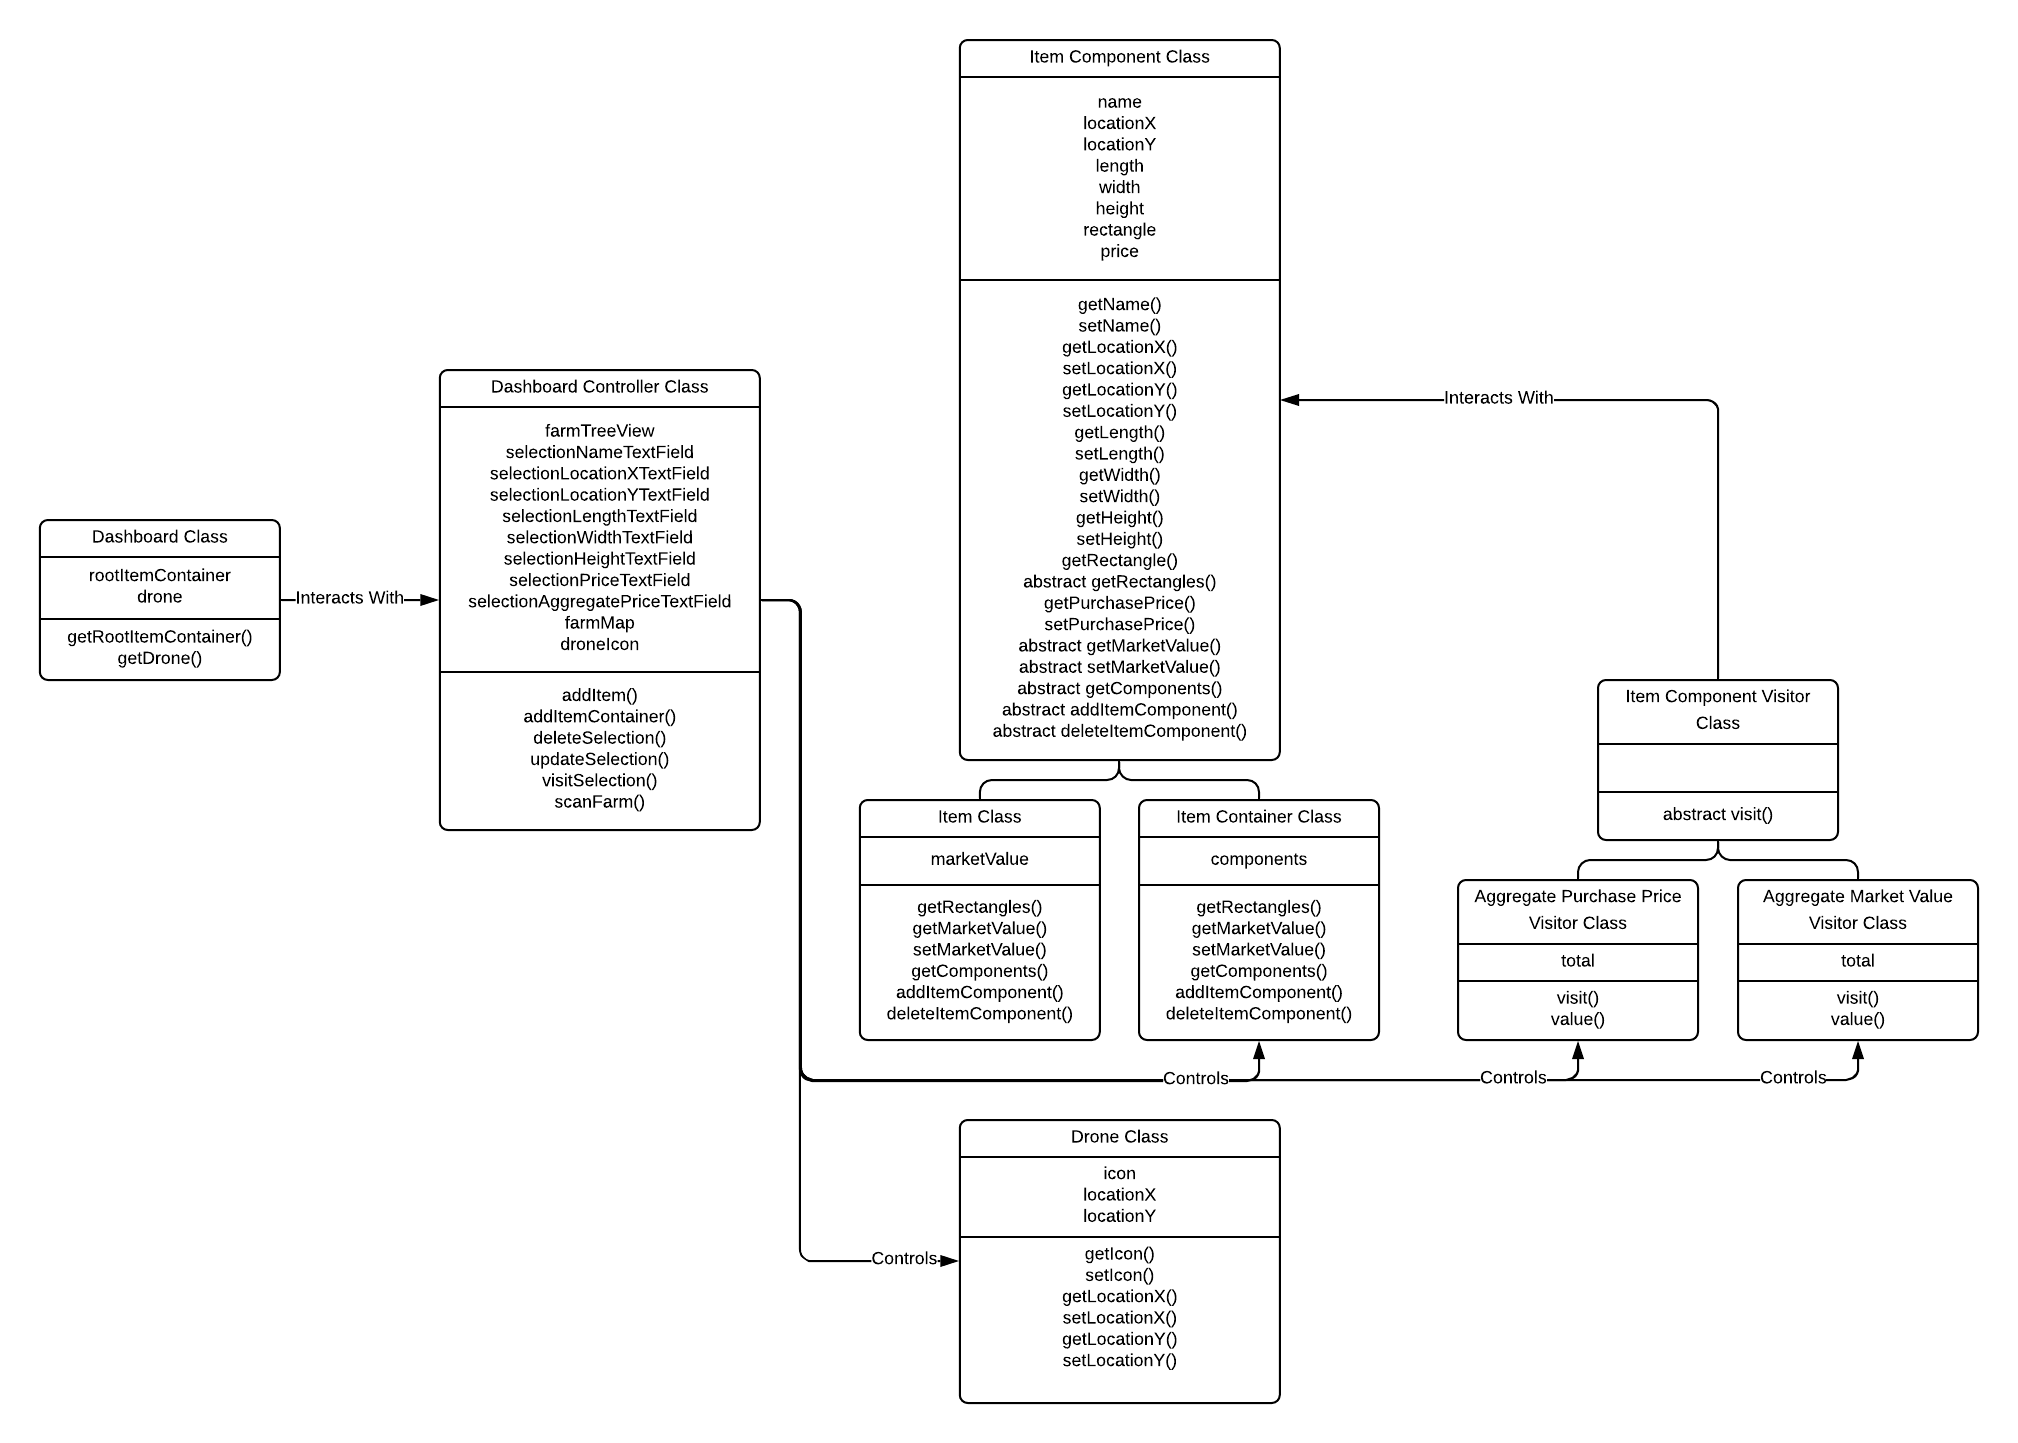
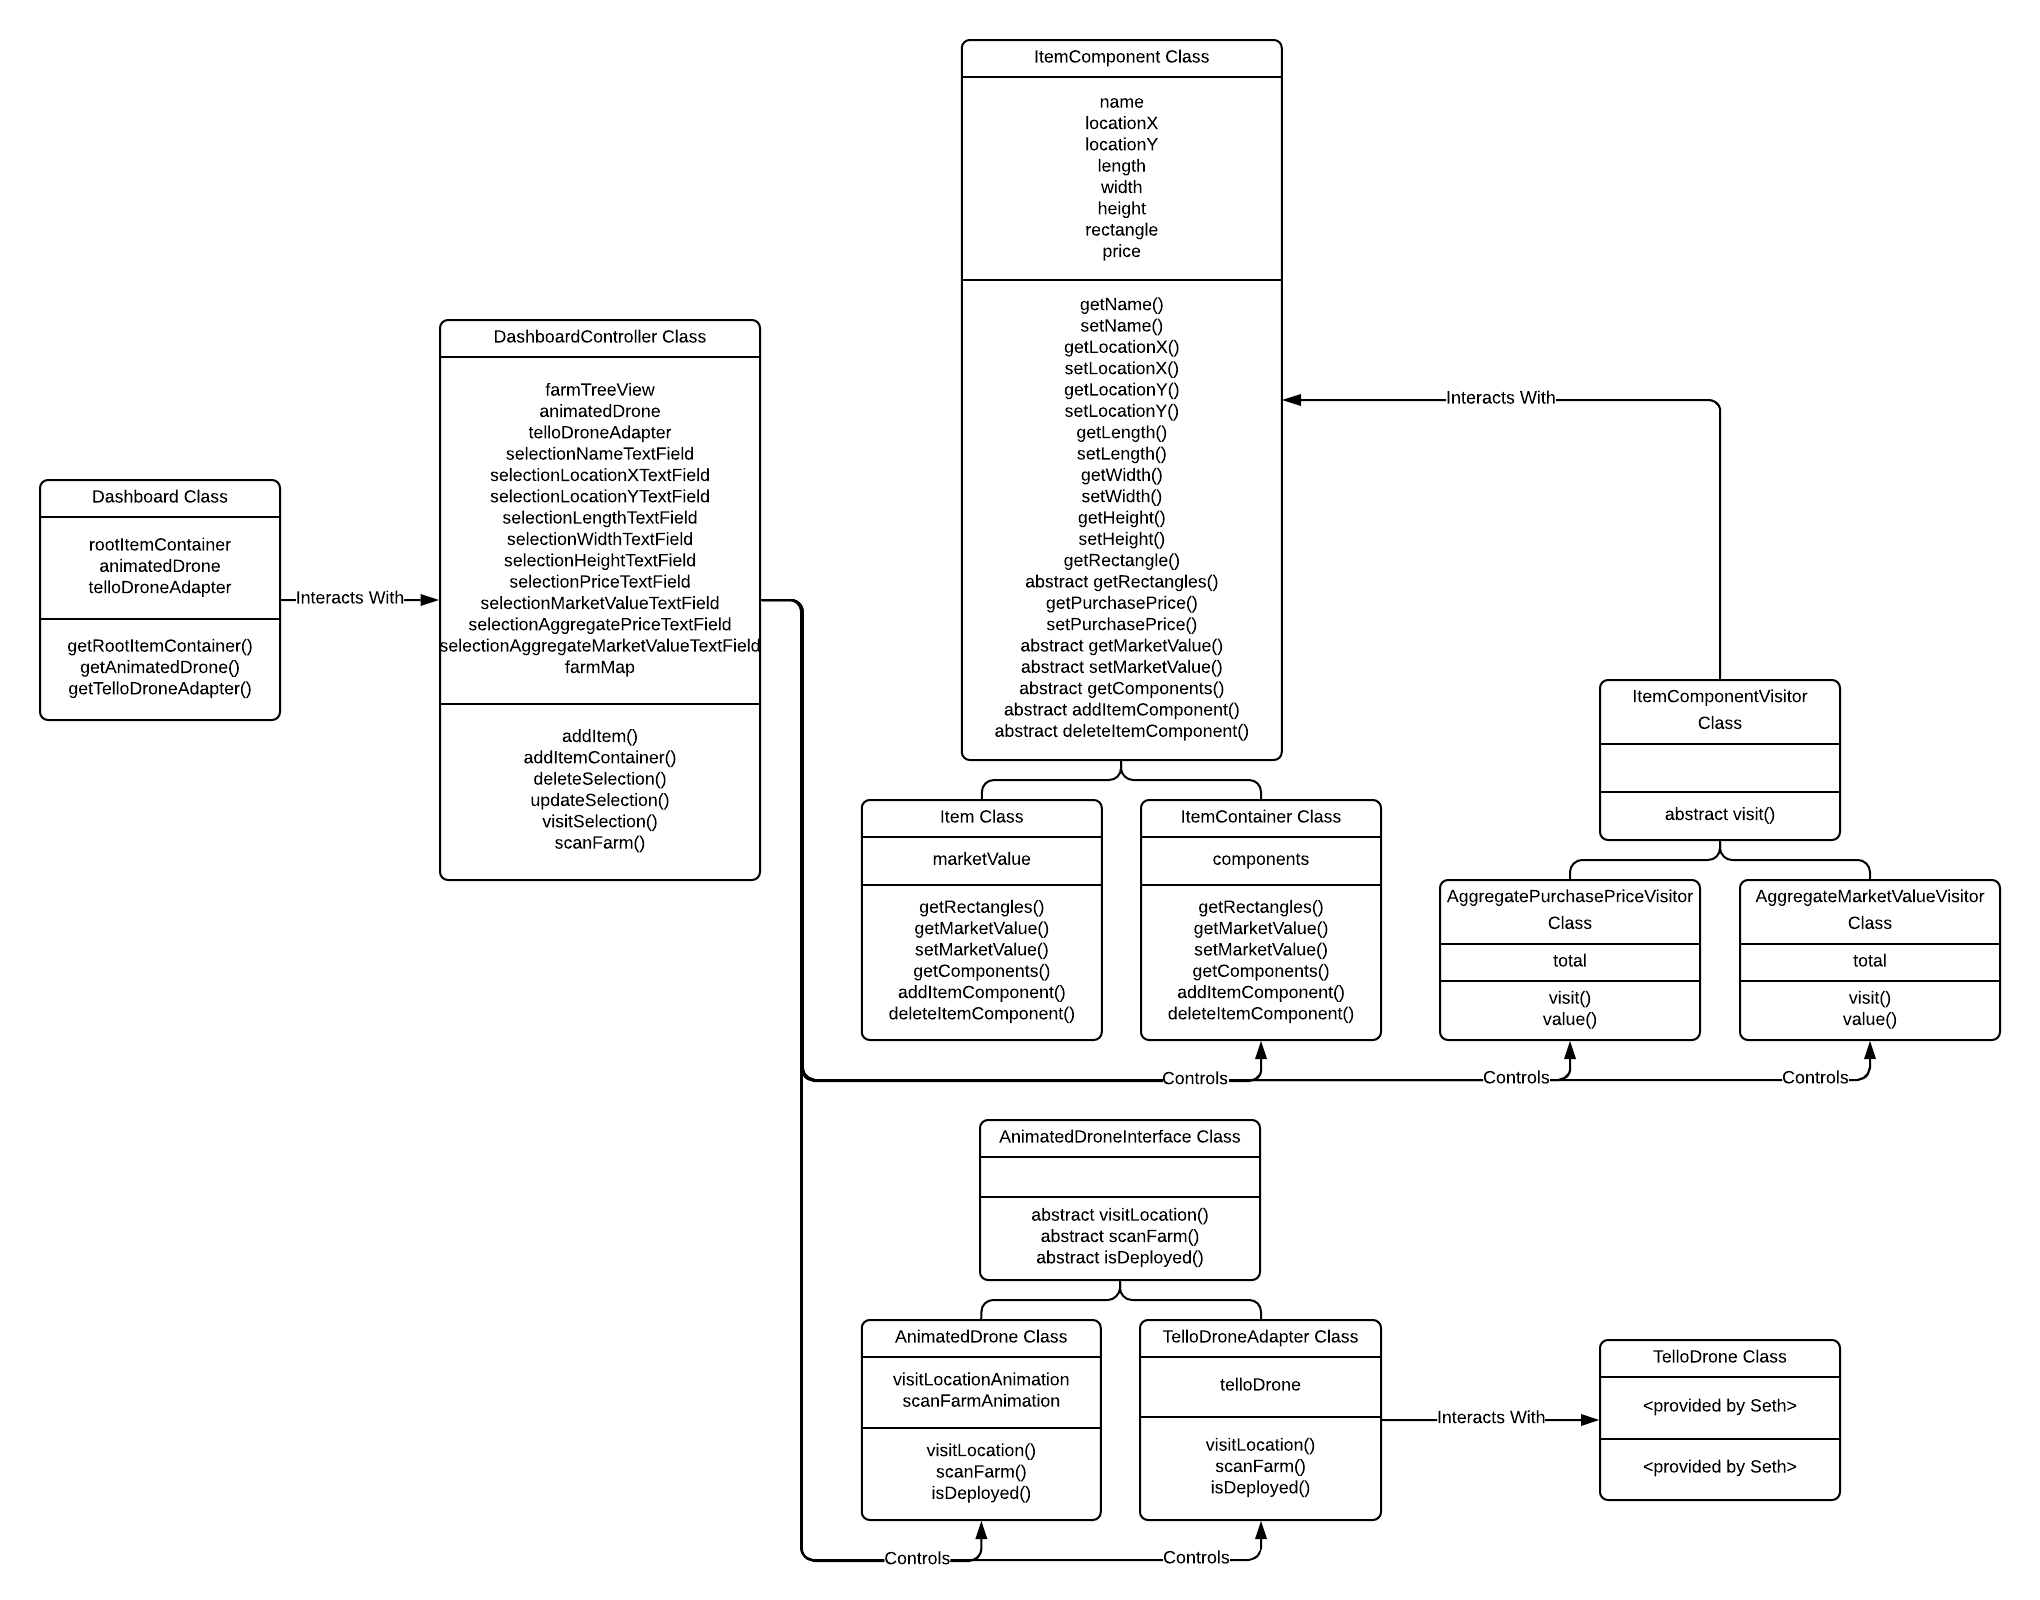
update classes document

diff --git a/classes.md b/classes.md
@@ -10,21 +10,24 @@
 
 ### Entity Classes
 
-- Item Component Class (composite, pro-transparency)
-  - Item Class
-  - Item Container Class
-- Item Component Visitor Class
-  - Aggregate Purchase Price Visitor Class
-  - Aggregate Market Value Visitor Class
-- Drone Class
+- **ItemComponent** class (composite, pro-transparency)
+  - **Item** class
+  - **ItemContainer** class
+- **ItemComponentVisitor** class
+  - **AggregatePurchasePriceVisitor** class
+  - **AggregateMarketValueVisitor** class
+- **AnimatedDroneInterface** class
+  - **AnimatedDrone** class
+  - **TelloDroneAdapter** class (adapts **TelloDrone** to **AnimatedDrone**)
+- **TelloDrone** class (provided by Seth)
 
 ### Boundary Classes
 
-- Dashboard Class (main)
+- **Dashboard** class (main)
 
 ### Control Classes
 
-- Dashboard Controller Class (singleton)
+- **DashboardController** class
 
 ### Class Diagram
 
